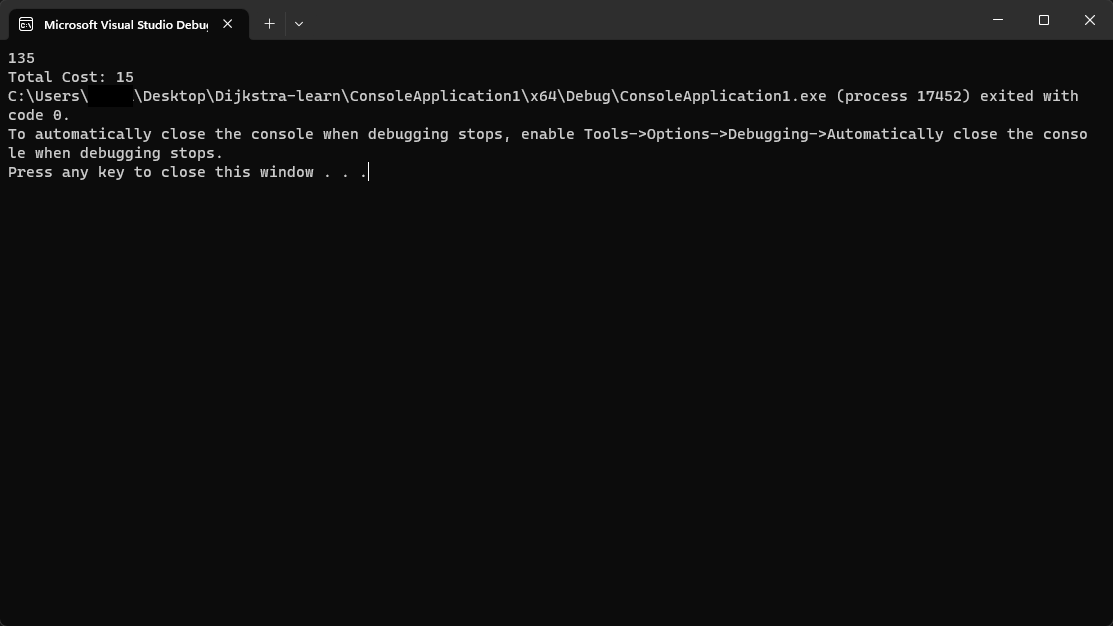
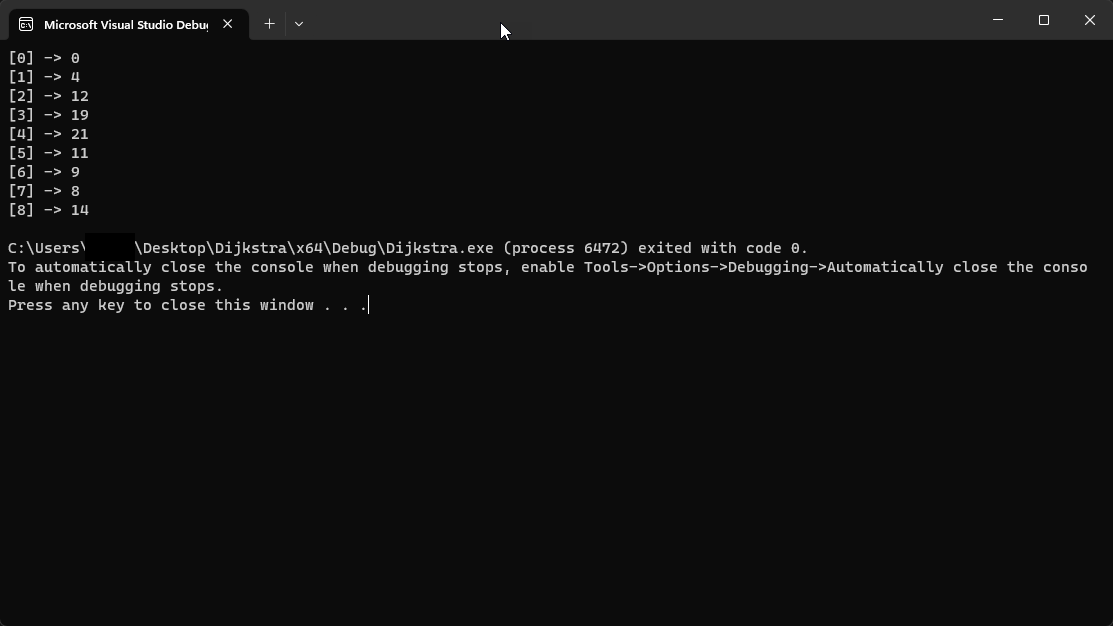
final Dijkstra

diff --git a/dijkstra/code.cpp b/dijkstra/code.cpp
@@ -1,72 +1,78 @@
-#include <iostream>
+#include <iostream> 
+
+#define V 9
+
+int graph[V][V] = {
+    {0, 4, 0, 0, 0, 0, 0, 8, 0},
+    {4, 0, 8, 0, 0, 0, 0, 11, 0},
+    {0, 8, 0, 7, 0, 4, 0, 0, 2},
+    {0, 0, 7, 0, 9, 14, 0, 0, 0},
+    {0, 0, 0, 9, 0, 10, 0, 0, 0},
+    {0, 0, 4, 14, 10, 0, 2, 0, 0},
+    {0, 0, 0, 0, 0, 2, 0, 1, 6},
+    {8, 11, 0, 0, 0, 0, 1, 0, 7},
+    {0, 0, 2, 0, 0, 0, 6, 7, 0}
+};
 
 using namespace std;
 
-#define N 5
+int minDistance(int dist[], bool sptSet[])
+{
+    int min = INT_MAX;
+    int min_index;
 
-int main_graph[N][N] = {
-	{0,4,5,0,0},
-	{0,0,0,0,0},
-	{0,0,0,0,10},
-	{0,0,0,0,0},
-	{0,0,0,0,0},
-};
+    for (int i = 0; i < V; i++) {
+        if (sptSet[i] == false && dist[i] <= min) {
+            min = dist[i];
+            min_index = i;
+        }
+    }   
 
-
-bool check(int index) {
-	bool check_node = false;
-	for (int i = 0; i < N; i++)
-	{
-		if (index == (N - 1)) {
-			check_node = true;
-		}
-		else
-		{
-			if (main_graph[index][i] != 0) {
-				check_node = check(i);
-			}
-		}
-	}
-	return check_node;
+    return min_index;
 }
 
-int minDistance(int graph[]) {
-	int min_index = 0;
-	int min = 1000;
-	for (int i = 0; i < N; i++)
-	{
-		if (graph[i] != 0) {
-			if (graph[i] < min && check(i)) {
-				min_index = i;
-				min = graph[i];
-			}
-		}
-	}
+int printSolution(int dist[], int n)
+{
+    for (int i = 0; i < V; i++) {
+        cout << "[" << i << "] -> " << dist[i] << endl;
+    }
 
-	return min_index;
+    return 0;
 }
 
+void dijkstra(int src)
+{
+    int dist[V]; 
 
-void dijkstra(int graph[N][N]) {
+    bool sptSet[V];
 
-	int min = 0;
-	int total = 0;
-	int last = 0;
-	for (int i = 0; i < N; i++)
-	{
-		cout << min + 1;
-		last = min;
-		min = minDistance(graph[min]);
-		if (min == 0) {
-			break;
-		}
-		total += graph[last][min];
-	}
-	cout << "\nTotal Cost: " << total;
+    for (int i = 0; i < V; i++) {
+        dist[i] = INT_MAX;
+        sptSet[i] = false;
+    }
+        
+    dist[src] = 0;
+
+    for (int i = 0; i < V - 1; i++) {
+        
+        int u = minDistance(dist, sptSet);
+
+        sptSet[u] = true;
+
+        for (int j = 0; j < V; j++) {
+            
+            if (!sptSet[j] && graph[u][j] && dist[u] != INT_MAX && dist[u] + graph[u][j] < dist[j]) {
+                dist[j] = dist[u] + graph[u][j];
+            }
+        }
+    }
+
+    printSolution(dist, V);
 }
 
+int main()
+{
+    dijkstra(0);
 
-int main() {
-	dijkstra(main_graph);
+    return 0;
 }
-
